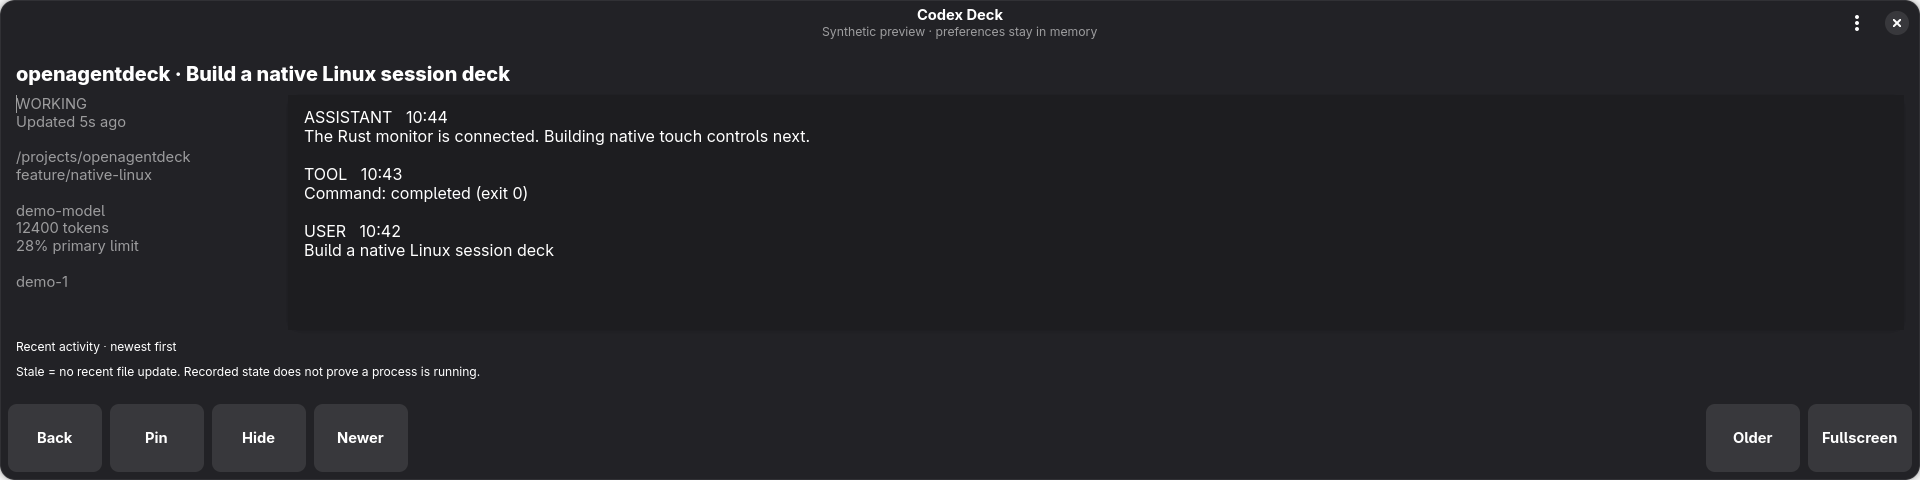
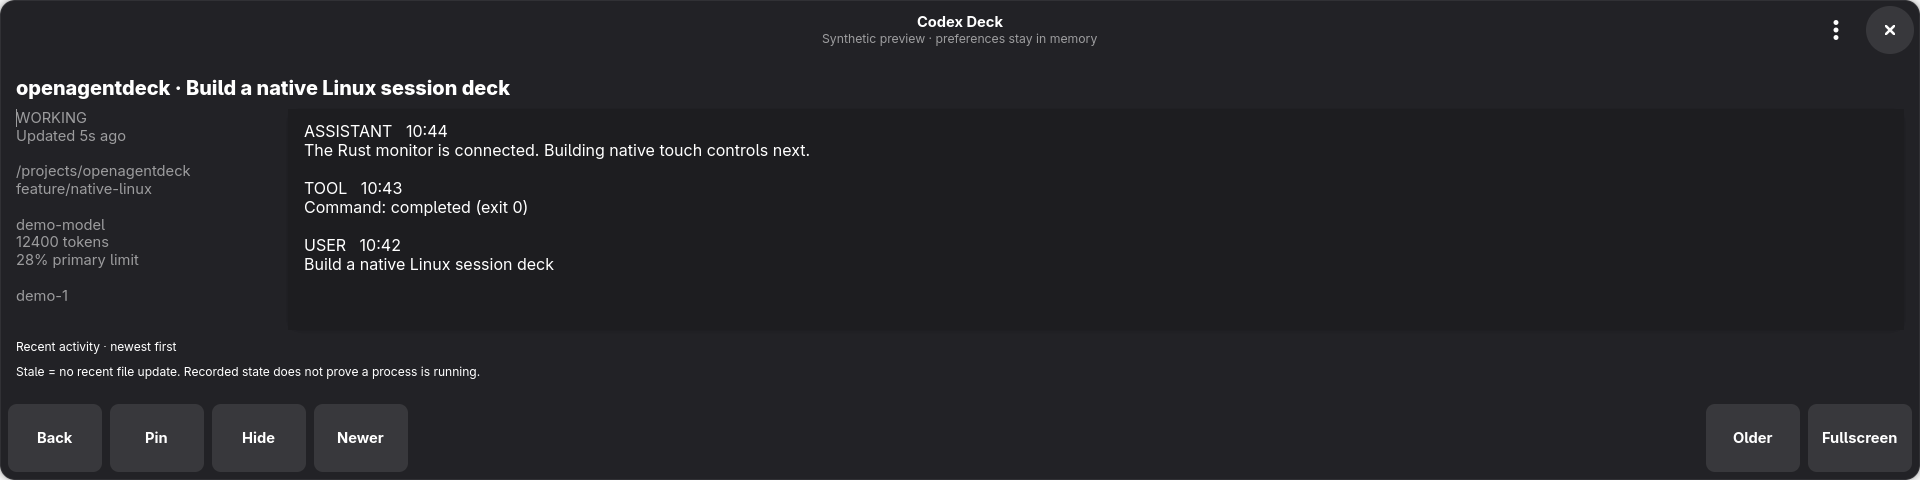
Enlarge native header controls for touch

Changed region(s): [[0.0, 0.125, 0.4375, 0.5625], [0.4062, 0.0, 0.5938, 0.0938], [0.0, 0.4375, 0.0625, 0.625]]

diff --git a/linux/src/style.css b/linux/src/style.css
@@ -1,4 +1,10 @@
 .touch { min-height: 56px; min-width: 66px; padding: 6px 14px; }
+/* Keep native window actions, with larger targets and icons for the strip. */
+.deck-header windowcontrols button,
+.deck-header menubutton > button { min-width: 48px; min-height: 48px; padding: 0; }
+.deck-header windowcontrols button image { min-width: 40px; min-height: 40px; }
+.deck-header windowcontrols button image,
+.deck-header menubutton > button image { -gtk-icon-size: 20px; }
 .session-card { padding: 18px; border-radius: 14px; }
 .session-card:hover { background: alpha(@accent_color, 0.08); }
 .session-card:focus-visible { outline: 3px solid @accent_color; outline-offset: -3px; }

diff --git a/linux/src/ui.rs b/linux/src/ui.rs
@@ -244,6 +244,7 @@ impl Deck {
         window.set_size_request(720, 400);
         let toolbar = adw::ToolbarView::new();
         let header = adw::HeaderBar::new();
+        header.add_css_class("deck-header");
         let title = adw::WindowTitle::new("Codex Deck", "Existing local sessions");
         header.set_title_widget(Some(&title));
         let menu = gtk::MenuButton::builder()
